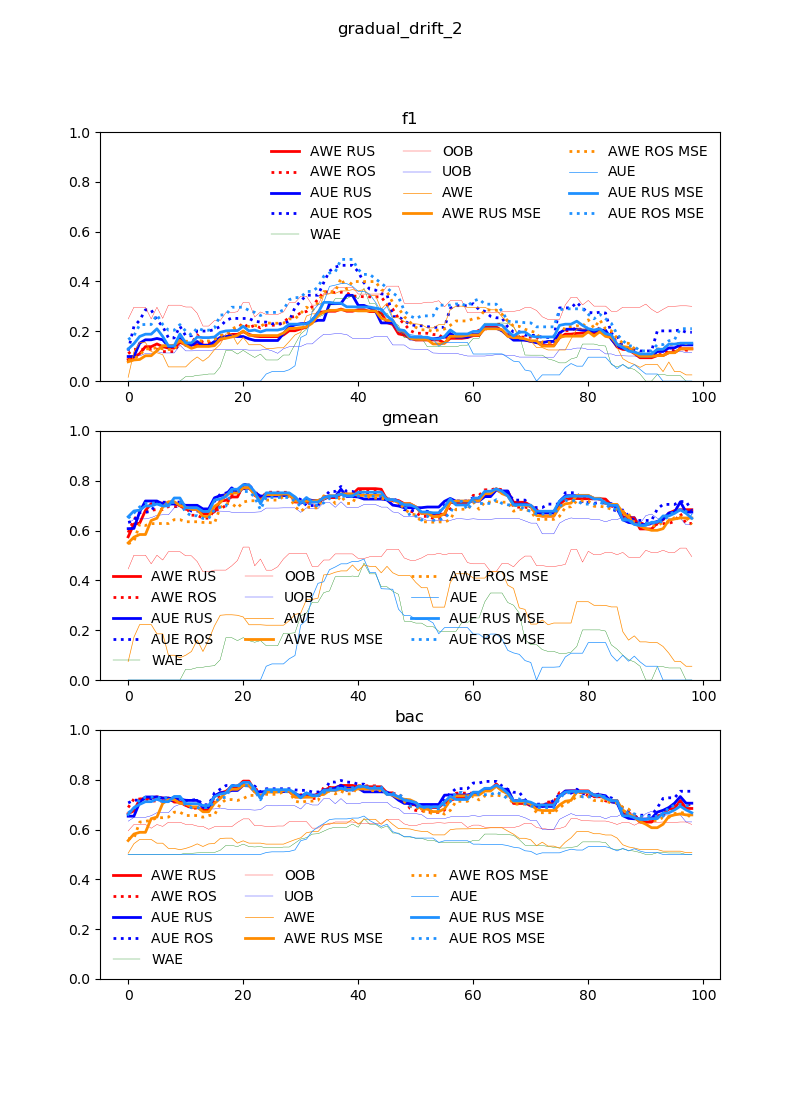
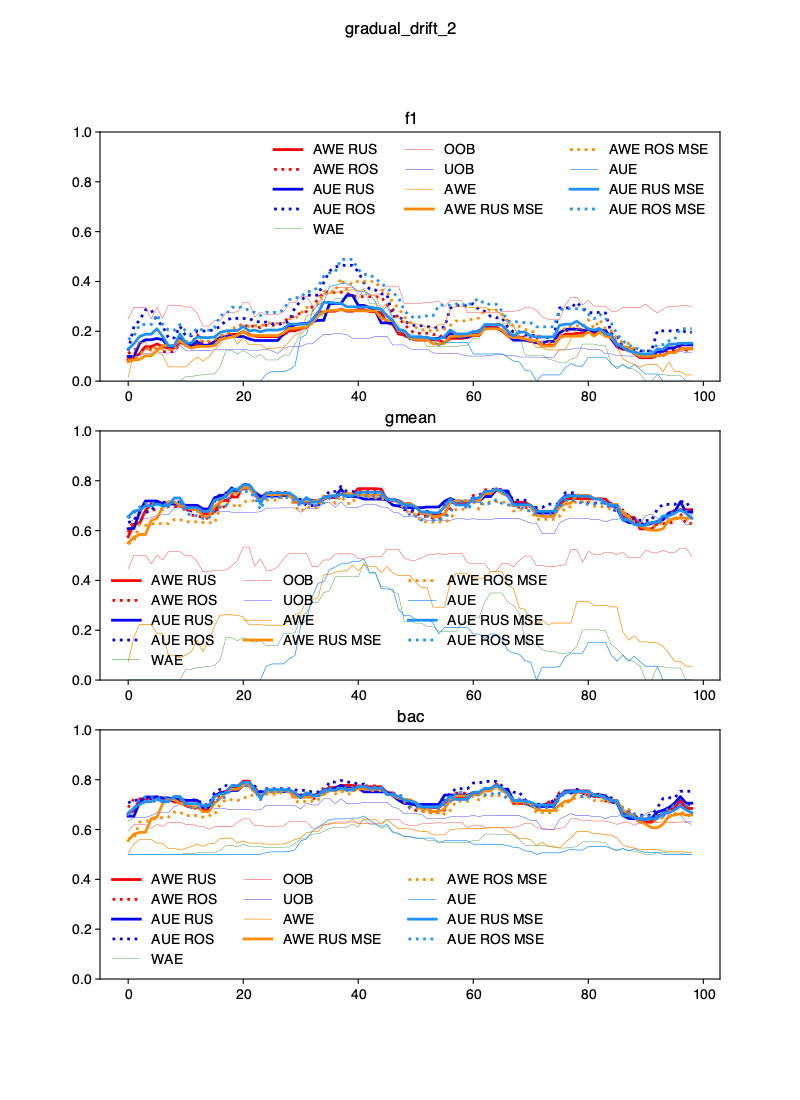
TO_COMPARE

diff --git a/script.py b/script.py
@@ -20,14 +20,45 @@ for fname in fnames:
     results_mse = np.load("wyniki_mse_2/Stream_%s_imbalance.npy" % fname)
     new_results = np.concatenate((results, results_mse), axis=1)
 
+    # Z tego testy parowe
+    to_compare = np.mean(new_results, axis=2)
+    print(to_compare.shape)
+    # Koniec tego
+
     new_results = np.mean(new_results, axis=0)
     kernel = 5
     metrics = ["f1", "gmean", "bac"]
-    colors = ["red", "red", "blue", "blue", "green", "red", "blue", 'darkorange', 'darkorange','darkorange', 'dodgerblue',
-              'dodgerblue',  'dodgerblue' ]
-    ls = ["-", ":", "-", ":", "-", "-", "-",   "-", "-", ":", "-", "-",":"]
-    labels = ["AWE RUS", "AWE ROS", "AUE RUS", "AUE ROS", "WAE", "OOB", "UOB", "AWE","AWE RUS MSE", "AWE ROS MSE",
-              "AUE", "AUE RUS MSE", "AUE ROS MSE"]
+    colors = [
+        "red",
+        "red",
+        "blue",
+        "blue",
+        "green",
+        "red",
+        "blue",
+        "darkorange",
+        "darkorange",
+        "darkorange",
+        "dodgerblue",
+        "dodgerblue",
+        "dodgerblue",
+    ]
+    ls = ["-", ":", "-", ":", "-", "-", "-", "-", "-", ":", "-", "-", ":"]
+    labels = [
+        "AWE RUS",
+        "AWE ROS",
+        "AUE RUS",
+        "AUE ROS",
+        "WAE",
+        "OOB",
+        "UOB",
+        "AWE",
+        "AWE RUS MSE",
+        "AWE ROS MSE",
+        "AUE",
+        "AUE RUS MSE",
+        "AUE ROS MSE",
+    ]
 
     usages = [
         [0, 3, 6, 9, 12, 13, 14, 15, 16, 17, 18, 19, 20],
